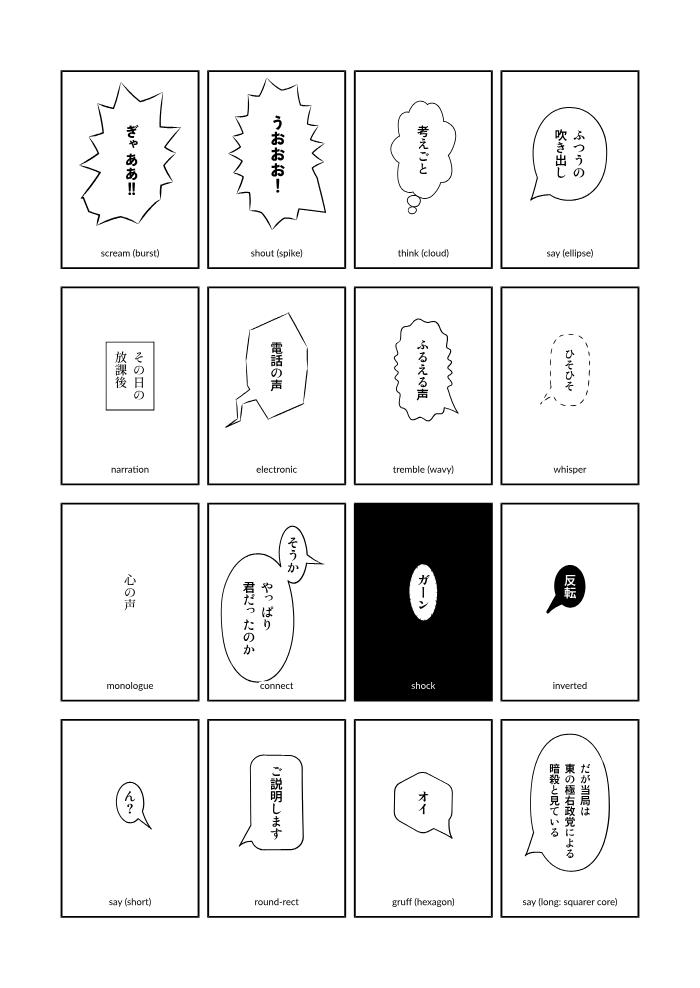
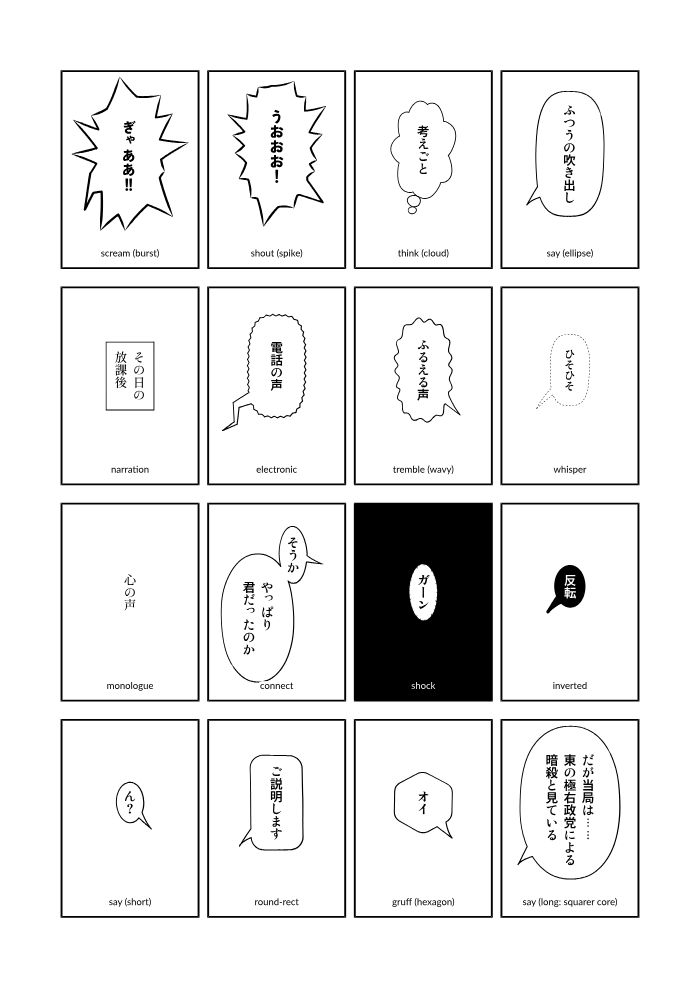
Refine dashed balloon outlines with lighter proportional strokes (#96)

diff --git a/test/whisper-dash.test.ts b/test/whisper-dash.test.ts
@@ -1,13 +1,73 @@
 import { afterEach, describe, expect, it, vi } from "vitest";
+import { createRenderer } from "../src/api.js";
 import { Rng } from "../src/core/random.js";
 import { pointInPolygon } from "../src/geom/path.js";
 import { HAND_PRESETS, PEN_PRESETS } from "../src/ink/presets.js";
 import { inkShape } from "../src/ink/shape.js";
 import * as stroke from "../src/ink/stroke.js";
+import * as shape from "../src/ink/shape.js";
 
 afterEach(() => vi.restoreAllMocks());
 
 describe("dashed tail outlines", () => {
+  it.each([1, 42, 9876])("closes smooth contours with a full seam gap (seed %i)", (seed) => {
+    const spy = vi.spyOn(stroke, "strokeOutline");
+    inkShape({ pts: [{ x: 0, y: 0 }, { x: 10, y: 0 }, { x: 10, y: 10 }, { x: 0, y: 10 }], closed: true, smooth: true }, {
+      hand: HAND_PRESETS.clean, rng: new Rng(seed), ruler: true,
+      line: { width: 0.13, pen: PEN_PRESETS.marker, style: "dashed", dash: [0.52, 0.325] },
+    });
+    const arc = (p: { x: number; y: number }) => p.y === 0 ? p.x : p.x === 10 ? 10 + p.y : p.y === 10 ? 30 - p.x : 40 - p.y;
+    const intervals = spy.mock.calls.map(([pts]) => [arc(pts[0]), arc(pts.at(-1)!)]);
+    intervals.forEach(([a, b], i) => {
+      expect(b - a).toBeGreaterThan(0.4);
+      expect(b - a).toBeLessThan(0.65);
+      const gap = intervals[(i + 1) % intervals.length][0] + (i === intervals.length - 1 ? 40 : 0) - b;
+      expect(gap).toBeGreaterThan(0.25);
+      expect(gap).toBeLessThan(0.41);
+    });
+  });
+
+  it.each(["ellipse", "rect", "cloud"])("uses fine proportional balloon dashes for %s", async (kind) => {
+    const spy = vi.spyOn(shape, "inkShape");
+    const renderer = createRenderer({ profile: "web" });
+    for (const width of [0.2, 0.4]) {
+      await renderer.displayList({ yaml: `mangacli: 1
+pages:
+  - panels:
+      - layers:
+          - balloon: quiet
+            shape: { kind: ${kind} }
+            stroke: { style: dashed, width: ${width}mm }
+            tail: { kind: none }
+`, filename: "/v/dashes.yaml" }, 1);
+      const line = spy.mock.calls.filter(([, o]) => o.line?.style === "dashed").at(-1)![1].line!;
+      expect(line.width).toBeCloseTo(width * 0.65);
+      expect(line.dash![0]).toBeCloseTo(line.width * 4);
+      expect(line.dash![1]).toBeCloseTo(line.width * 2.5);
+    }
+  });
+
+  it("leaves degenerate dashed contours empty", () => {
+    expect(inkShape({ pts: [{ x: 0, y: 0 }], closed: true }, {
+      hand: HAND_PRESETS.clean, rng: new Rng(1),
+      line: { width: 0.2, pen: PEN_PRESETS.marker, style: "dashed" },
+    }).inks).toEqual([]);
+  });
+
+  it("preserves explicitly configured balloon dash lengths", async () => {
+    const spy = vi.spyOn(shape, "inkShape");
+    await createRenderer({ profile: "web" }).displayList({ yaml: `mangacli: 1
+pages:
+  - panels:
+      - layers:
+          - balloon: quiet
+            stroke: { style: dashed, width: 0.2mm, dash: [1mm, 0.5mm] }
+            tail: { kind: none }
+`, filename: "/v/dashes.yaml" }, 1);
+    const line = spy.mock.calls.filter(([, o]) => o.line?.style === "dashed").at(-1)![1].line!;
+    expect(line.width).toBeCloseTo(0.13);
+    expect(line.dash).toEqual([1, 0.5]);
+  });
   it.each([[100, 100], [1.6, 100], [100, 1]])("inks pointed contours even with oversized dashes %j", (on, off) => {
     const result = inkShape({ pts: [{ x: 0, y: 0 }, { x: 2, y: 1 }, { x: 0, y: 2 }], closed: true, corners: [{ index: 1, kind: "point" }] }, {
       hand: HAND_PRESETS.clean, rng: new Rng(1),

diff --git a/src/ink/shape.ts b/src/ink/shape.ts
@@ -429,6 +429,7 @@ function dashed(d: Dense, c: ShapeContour, line: LineStyle, o: InkShapeOptions, 
   const hand = o.hand;
   const [on, off] = line.dash ?? [1.6, 1.0];
   if (!(on > 0 && off > 0) || !Number.isFinite(on + off)) return solid(d, c, { ...line, style: "solid" }, o, rng);
+  if (!(d.total > 0) || !Number.isFinite(d.total)) return [];
   const inks: InkPoly[] = [];
   const point = c.closed ? c.corners?.find((k) => k.kind === "point") : undefined;
   if (point) {
@@ -445,6 +446,20 @@ function dashed(d: Dense, c: ShapeContour, line: LineStyle, o: InkShapeOptions, 
         const pts = slice(d, anchor + direction * s, anchor + direction * e, step);
         inks.push(...strokeOutline(pts, { width: line.width, pen: line.pen, hand, rng: rng.fork("d"), taperInLen: i === 0 ? 0 : on * scale * 0.3, taperOutLen: on * scale * 0.35, startWidth: i === 0 ? o.pointWidth : undefined, ruler, inkPool: false }));
       }
+    }
+    return inks;
+  }
+  if (d.closed) {
+    const count = Math.max(1, Math.round(d.total / (on + off)));
+    const lengths = Array.from({ length: count }, () => [on * rng.range(0.8, 1.2), off * rng.range(0.8, 1.2)]);
+    const scale = d.total / lengths.reduce((sum, [a, b]) => sum + a + b, 0);
+    let start = lengths[count - 1][1] * scale / 2;
+    const step = Math.max(0.08, hand.resolution * 0.5);
+    for (const [a, b] of lengths) {
+      const length = a * scale;
+      const pts = slice(d, start, start + length, step);
+      inks.push(...strokeOutline(pts, { width: line.width, pen: line.pen, hand, rng: rng.fork("d"), taperInLen: length * 0.3, taperOutLen: length * 0.35, ruler, inkPool: false }));
+      start += (a + b) * scale;
     }
     return inks;
   }

diff --git a/src/model/defaults.ts b/src/model/defaults.ts
@@ -10,7 +10,7 @@ export const BUILTIN_DEFAULTS: Record<string, Obj> = {
   },
   balloon: {
     shape: { kind: "ellipse", irregularity: 0.12, tilt: ["-1.5deg", "1.5deg"] },
-    stroke: { width: "0.25bmm", color: "black", pen: { preset: "g-pen" }, style: "solid", dash: ["1.6bmm", "1.0bmm"], dot: { size: "0.45bmm", gap: "0.9bmm" }, double: { gap: "0.6bmm", inner: "0.2bmm" } },
+    stroke: { width: "0.25bmm", color: "black", pen: { preset: "g-pen" }, style: "solid", dot: { size: "0.45bmm", gap: "0.9bmm" }, double: { gap: "0.6bmm", inner: "0.2bmm" } },
     fill: "paper",
     tail: { kind: "wedge", gap: "2bmm", bend: 0.15, sideCurve: 0.25, root: "auto", count: 3, shrink: 0.62, segments: 3 },
     maxSize: ["75%", "80%"],

diff --git a/src/elements/balloon.ts b/src/elements/balloon.ts
@@ -1022,6 +1022,10 @@ function buildBody(plan: BalloonPlan, ctx: ElemCtx, skipTails = false): BodyBuil
   const tr = applyTails(tailContour, tails, { ctx, plan, center, rng });
   if (tr.contour && p.as !== "aside") contour = tr.contour;
   const stroke = resolveStroke(p.stroke, plan.hand, ctx.u, ctx.bag, [...el.path, "stroke"]);
+  if (stroke.style === "dashed") {
+    stroke.width *= 0.65;
+    stroke.dash ??= [stroke.width * 4, stroke.width * 2.5];
+  }
   const ruler = !!(plan.params.ruler ?? body.ruler) && !contour.corners?.some((c) => c.kind === "tip" || c.kind === "point");
   return { contour, extra: tr.extra, stroke, ruler, rng };
 }

diff --git a/docs/06-balloons.md b/docs/06-balloons.md
@@ -186,12 +186,12 @@
 | `color` | Color | `black` | 線の色 |
 | `pen` | Pen | `g-pen` | ペン（[9.7](09-hand-drawn.md#97-ペンプリセット)） |
 | `style` | `solid` \| `dashed` \| `dotted` \| `double` \| `none` | `solid` | 線の種類。`dotted`、`double` は P1 |
-| `dash` | `[線, 隙間]` | `[1.6mm, 1.0mm]` | `dashed` の長さ |
+| `dash` | `[線, 隙間]` | `[線幅 × 4, 線幅 × 2.5]` | `dashed` の長さ。明示した長さはそのまま使う |
 | `dot` | `{ size, gap }` | `{ size: 0.45mm, gap: 0.9mm }` | `dotted` の点 |
 | `double` | `{ gap, inner }` | `{ gap: 0.6mm, inner: 0.2mm }` | `double` の間隔と内側の線幅 |
 | `hand` | Hand | - | 線だけの手描き設定 |
 
-- `dashed` の各線は、入り抜きのある短いストロークとして描き、長さを ±20 % ばらつかせる。小声（ひそひそ声）の表現に使う。
+- `dashed` は指定線幅の 65 % の細さで描く。省略時の線と隙間は、この描画線幅の 4 倍と 2.5 倍。各線は入り抜きのある短いストロークとし、長さを ±20 % ばらつかせ、閉じた輪郭全体に収まるよう調整する（始点にも同じ隙間を保つ）。尖ったしっぽは先端から両側へ対称に配分する。小声（ひそひそ声）の表現に使う。
 - `dotted` の各点は、わずかに歪んだ小さな塗りの円として描く。
 - `double` は、外側の線と、内側へ `gap` だけ離した細い線の 2 本で描く。強い強調や館内放送などの表現に使う。
 
@@ -476,7 +476,7 @@ panels:
 | `say` | 通常のセリフ | `ellipse` | 0.25 mm、G ペン | `wedge` | `dialogue` | | P0 |
 | `think` | 心の声 | `cloud` | 0.2 mm、丸ペン | `bubbles` | `thought` | | P0 |
 | `shout` | 叫び | `spike` | 0.3 mm、G ペン | `wedge`（`widthScale: 1.3`、`bend: 0`、`sideCurve: 0`） | `shout` | `fontScale: 1.4` | P0 |
-| `whisper` | 小声 | `ellipse` | 0.2 mm、`dashed` | `wedge`（`widthScale: 0.7`） | `whisper` | `fontScale: 0.85` | P0 |
+| `whisper` | 小声 | `ellipse` | 0.2 mm、`dashed`（描画線幅 0.13 mm） | `wedge`（`widthScale: 0.7`） | `whisper` | `fontScale: 0.85` | P0 |
 | `tremble` | 震える声 | `wavy` | 0.22 mm | `wedge` | `dialogue` | | P0 |
 | `narration` | ナレーション | `rect` | 0.2 mm、定規 | `none` | `narration` | 既定の位置 `place: top-<読み始め側>` | P0 |
 | `monologue` | モノローグ | `none` | - | `none` | `narration` | `textOutline: 0.8mm white` | P0 |
